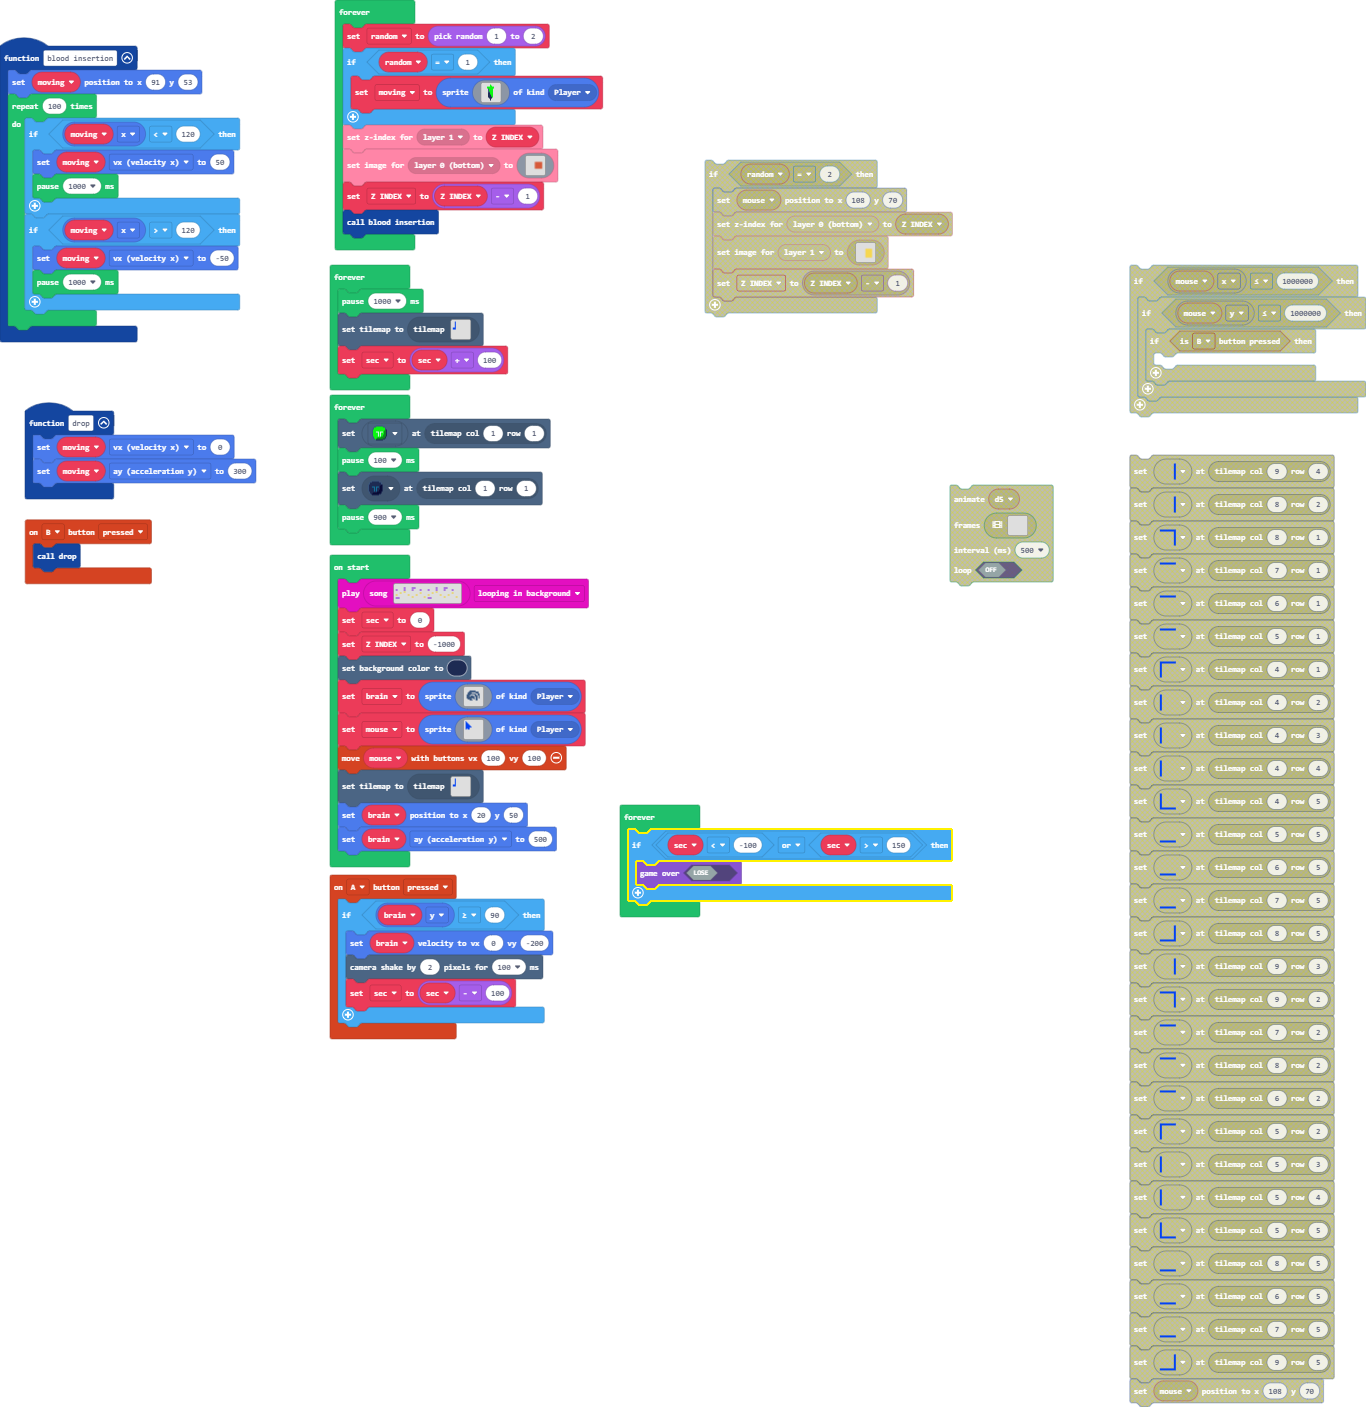
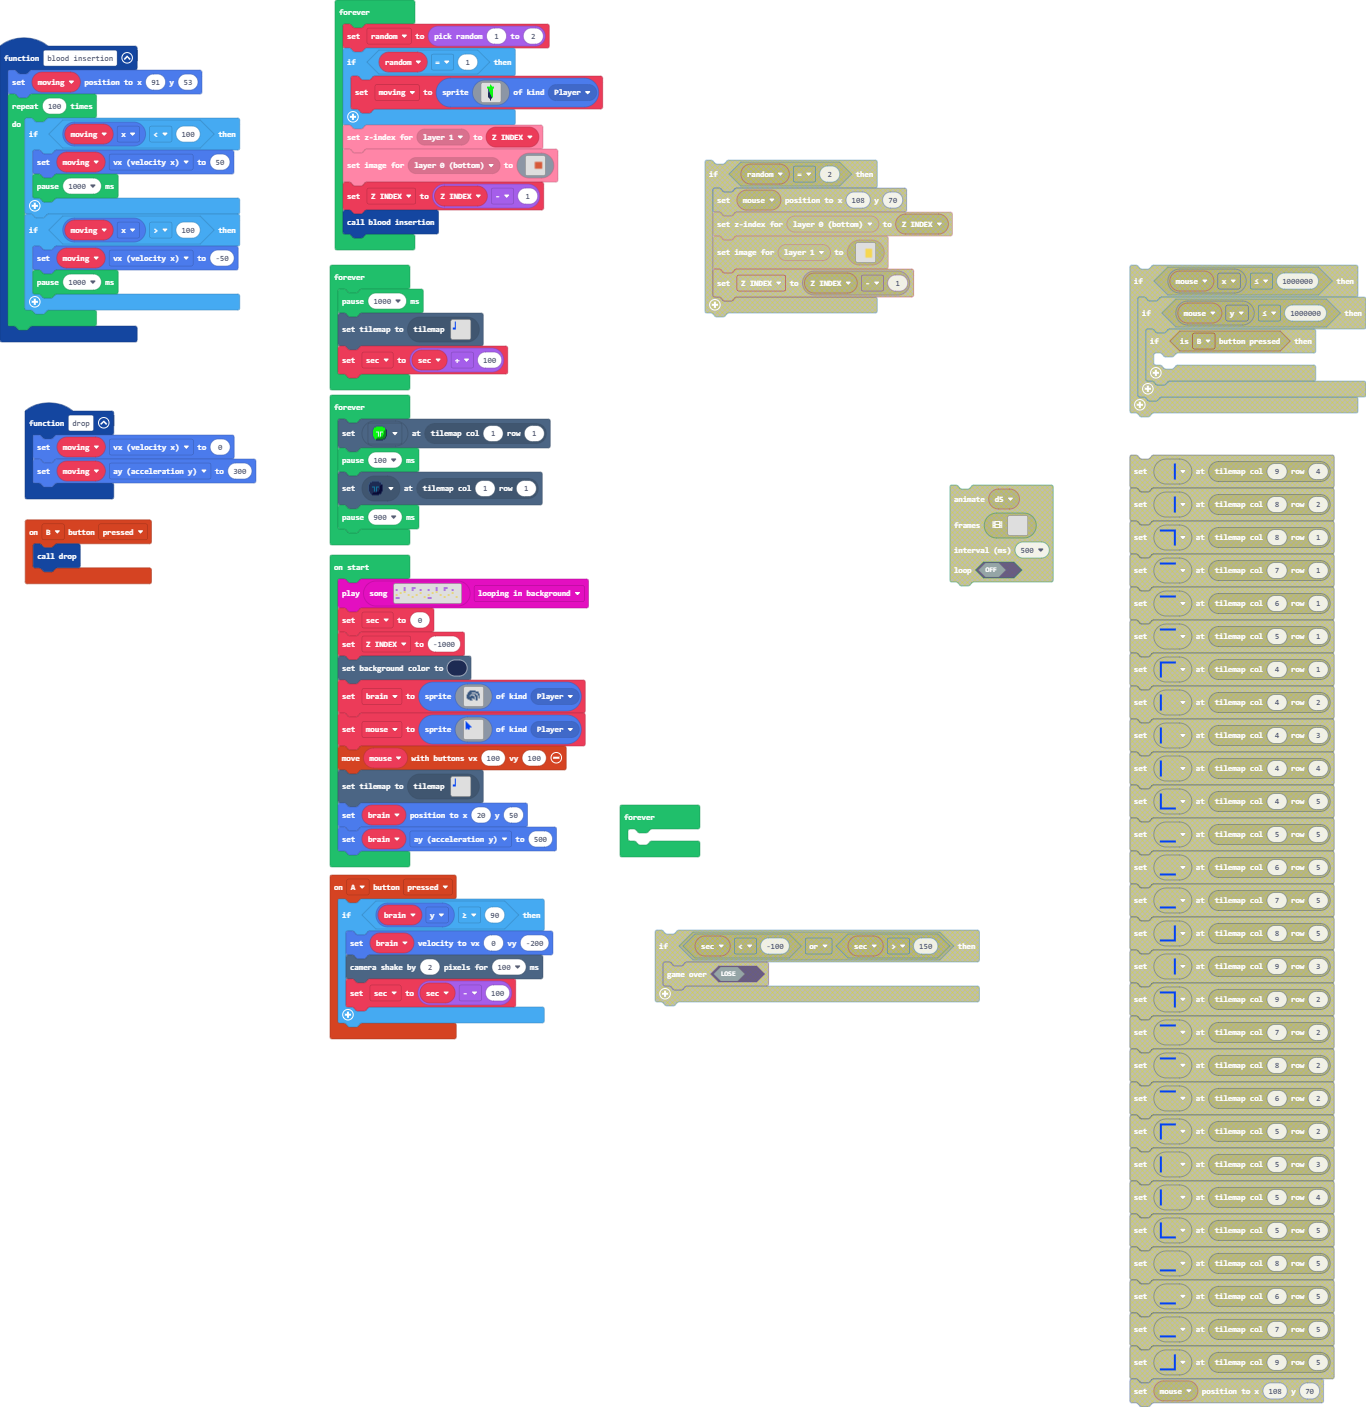
Update main.blocks, main.ts

Changed region(s): [[0.4305, 0.5807, 0.7379, 0.7335]]

diff --git a/main.ts b/main.ts
@@ -15,11 +15,11 @@ function drop () {
 function blood_insertion () {
     moving.setPosition(91, 53)
     for (let index = 0; index < 100; index++) {
-        if (moving.x < 120) {
+        if (moving.x < 100) {
             moving.vx = 50
             pause(1000)
         }
-        if (moving.x > 120) {
+        if (moving.x > 100) {
             moving.vx = -50
             pause(1000)
         }
@@ -233,7 +233,5 @@ forever(function () {
     pause(900)
 })
 forever(function () {
-    if (sec < -100 || sec > 150) {
-        game.gameOver(false)
-    }
+	
 })
